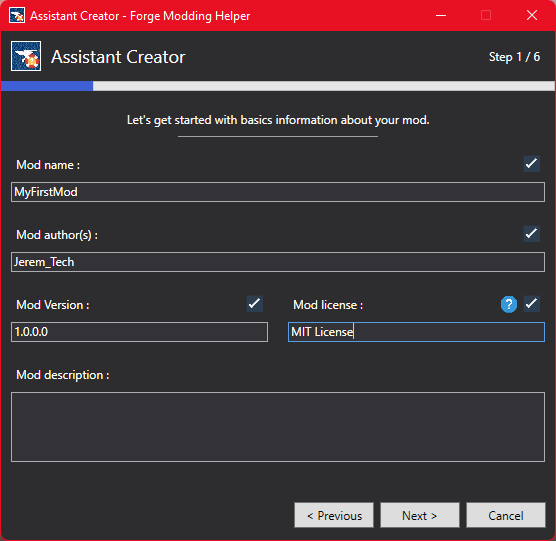
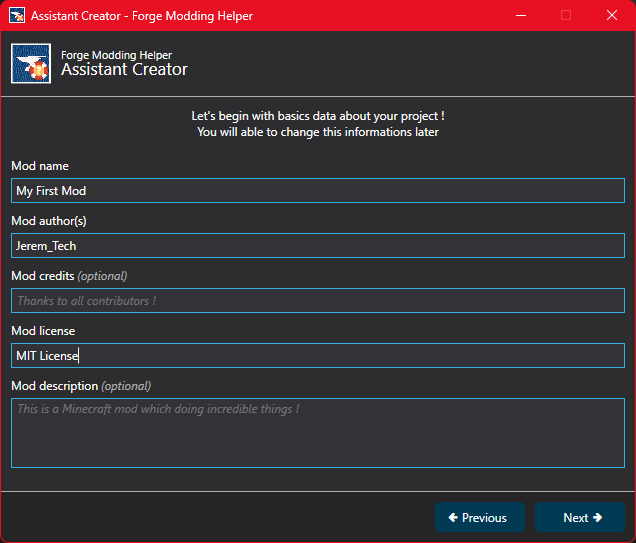
Updated Readme

diff --git a/FMH.Core/App.xaml.cs b/FMH.Core/App.xaml.cs
@@ -29,7 +29,7 @@ namespace FMH.Core
         // List of NeoForge Minecraft versions supported by Forge Modding Helper
         private static List<string> _supportedNeoForgeMcVersions = new List<string>()
         {
-            "1.20.2", "1.20.3", "1.20.4", "1.20.5", "1.20.6",
+            "1.20.2", "1.20.4", "1.20.6",
             "1.21", "1.21.1", "1.21.3", "1.21.4", "1.21.5", "1.21.8"
         };
 

diff --git a/README.md b/README.md
@@ -8,7 +8,7 @@ Forge Modding Helper is an utility software to manage Forge's Workspace.
 
 ## Compatibility 
 Forge Modding Helper is available for Windows 10 and 11.
-You also need to have [.Net 6.0 or latest](https://dotnet.microsoft.com/en-us/download) installed to run Forge Modding Helper.
+You also need to have [.Net 8.0 or latest](https://dotnet.microsoft.com/en-us/download) installed to run Forge Modding Helper.
 
 ## Version
 
@@ -28,11 +28,12 @@ Latest version | Latest stable version
 - [x] English and french translation
 - [x] UI Themes
 
-## Supported Minecraft Forge Versions
+## Supported Minecraft versions
 
-- [x] Minecraft Forge 1.21 : 1.21, 1.21.1, 1.21.3, 1.21.4
-- [x] Minecraft Forge 1.20 : 1.20, 1.20.1, 1.20.2, 1.20.4, 1.20.6
-- [x] Minecraft Forge 1.19 : 1.19, 1.19.1, 1.19.2, 1.19.3, 1.19.4
+Modding API | Supported Minecraft versions
+------------ | -------------
+Minecraft Forge|1.20, 1.20.1, 1.20.2, 1.20.4, 1.20.6, 1.21, 1.21.1, 1.21.3, 1.21.4, 1.21.5, 1.21.8
+NeoForge|1.20.2, 1.20.4, 1.20.6, 1.21, 1.21.1, 1.21.3, 1.21.4, 1.21.5, 1.21.8
 
 ## Report bug or submit ideas
 
